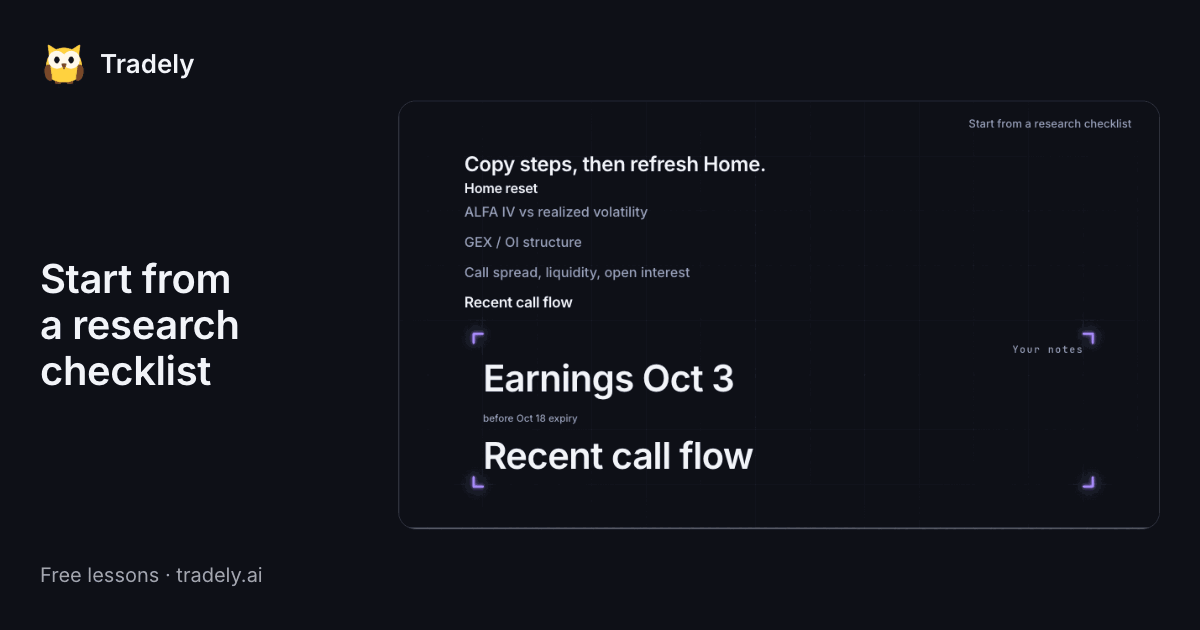
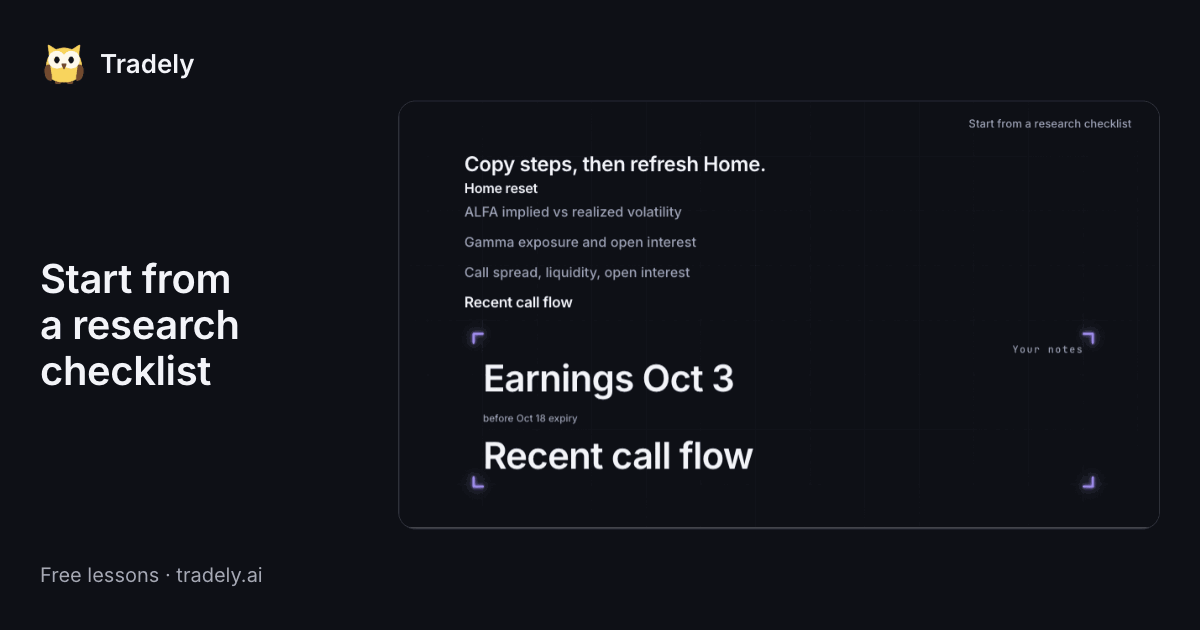
fix(learning): research-checklist spells out its abbreviations
"ALFA IV vs realized volatility" becomes "ALFA implied vs realized volatility" and "GEX / OI structure" becomes "Gamma exposure and open interest", wherever the rows show. On the phone the rows' tool labels are body size. The share card shows the new rows.

From the re-score of 2026-11-15: each change answers a finding that two or three of three juries shared. No existing step of the timeline moved unless said above.

Changed region(s): [[0.4008, 0.3317, 0.5858, 0.3921], [0.0308, 0.0603, 0.0617, 0.1508]]

diff --git a/apps/web/src/features/learning/lessons/research-checklist-film.tsx b/apps/web/src/features/learning/lessons/research-checklist-film.tsx
@@ -77,8 +77,8 @@ const baseSlot = (id: string) =>
 	id === EARNINGS.id || id === "flow" ? at(EDITED, id) : 0;
 /** Concise row copy, kept the same as checklist rows move into notes. */
 const shortText: Record<string, Copy> = {
-	vol: ["ALFA IV vs realized volatility", "ALFA 隐含与已实现波动率"],
-	gex: ["GEX / OI structure", "GEX / OI 结构"],
+	vol: ["ALFA implied vs realized volatility", "ALFA 隐含与已实现波动率"],
+	gex: ["Gamma exposure and open interest", "Gamma 敞口与未平仓量"],
 	trade: [
 		"Call spread, liquidity, open interest",
 		"看涨价差、流动性、未平仓量",
@@ -106,8 +106,8 @@ function layout(width: number) {
 		numW,
 		rowX: margin + numW,
 		rowW: room - numW,
-		rowText: narrow ? T.small * 1.1 : T.body,
-		toolText: narrow ? T.small : T.small * 1.15,
+		rowText: narrow ? T.body : frame.type.body,
+		toolText: narrow ? T.body : T.small * 1.15,
 		bubbleW: narrow ? room : room * 0.62,
 		bubbleText: narrow ? T.small * 1.1 : T.body,
 		bubblePad: narrow ? 8 : 14,
@@ -401,7 +401,7 @@ function Scene({
 									y={toolY + offset}
 									textAnchor={narrow ? "start" : "end"}
 									className={`wt-film-type ${toneClass.caution}`}
-									style={{ fontSize: L.toolText }}
+									style={{ fontSize: narrow ? T.small : L.toolText }}
 								>
 									{t(copy.forecastNote)}
 								</text>
@@ -448,7 +448,7 @@ function Scene({
 					name="notes-expiry"
 					x={L.noteX}
 					y={H * 0.75}
-					size={T.small}
+					size={narrow ? T.body : T.small}
 					anchor="start"
 					className="wt-film-type wt-film-dim"
 				>
